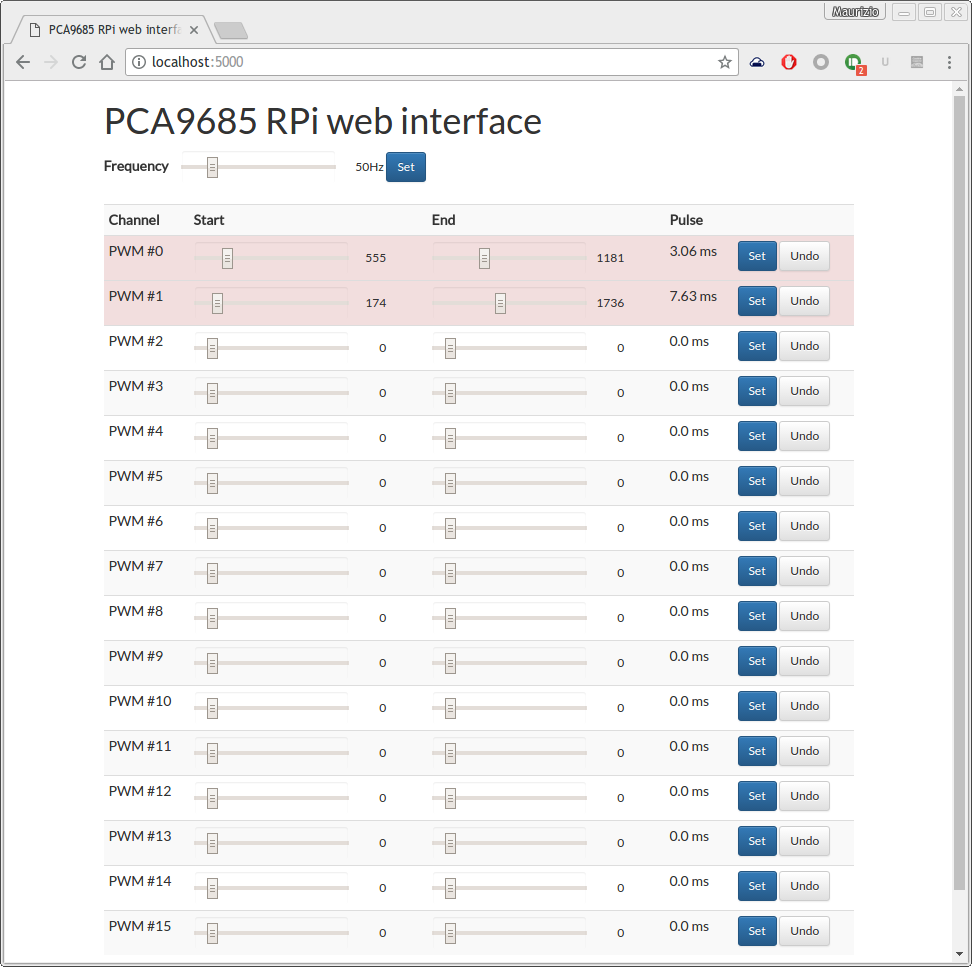
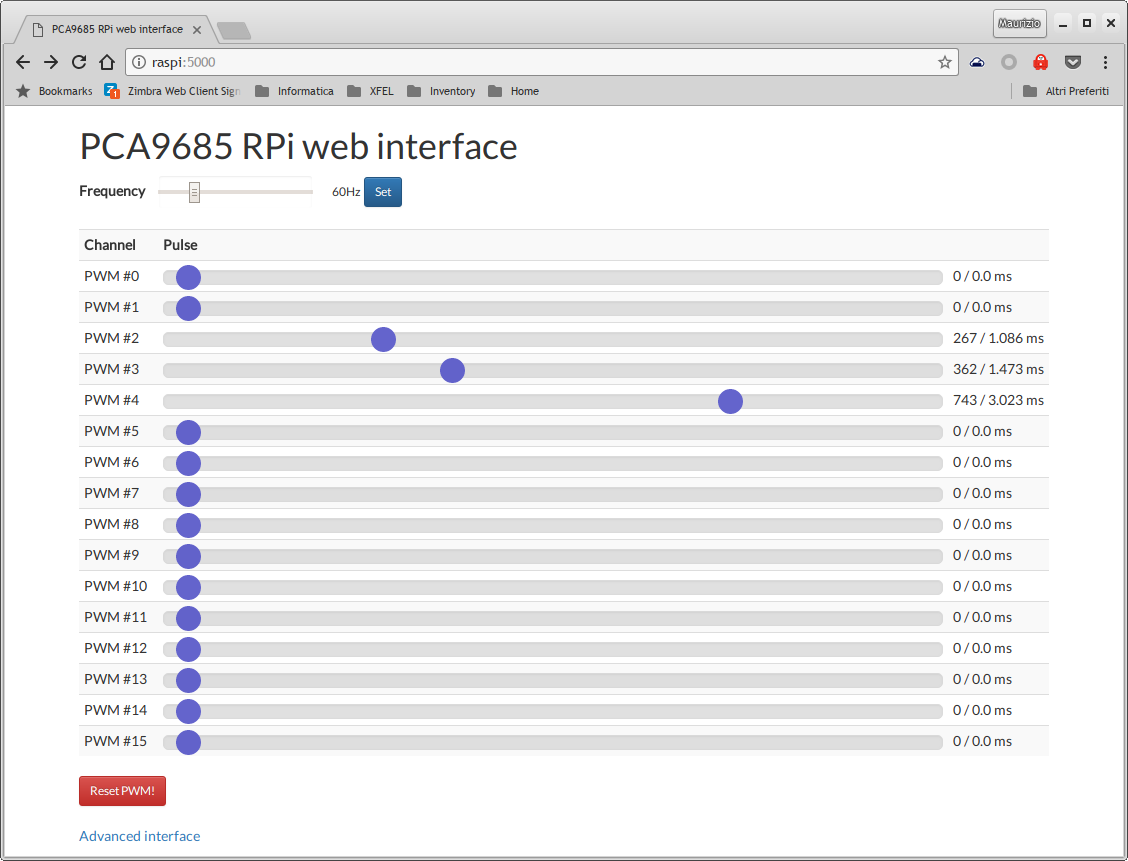
General improvements. Immediate set up of PWM signal on input change.

diff --git a/static/css/range.css b/static/css/range.css
@@ -1,85 +1,29 @@
-input[type=range] {
-  -webkit-appearance: none;
-  width: 100%;
-  margin: 8.3px 0;
+.form-inline .pwmfast {
+    -webkit-appearance: none;
+    width: 100%;
+    height: 15px;
+    border-radius: 5px;   
+    background: #d3d3d3;
+    outline: none;
+    opacity: 0.7;
+    -webkit-transition: .2s;
+    transition: opacity .2s;
 }
-input[type=range]:focus {
-  outline: none;
+
+.form-inline .pwmfast::-webkit-slider-thumb {
+    -webkit-appearance: none;
+    appearance: none;
+    width: 25px;
+    height: 25px;
+    border-radius: 50%; 
+    background: #2222b7;
+    cursor: pointer;
 }
-input[type=range]::-webkit-slider-runnable-track {
-  width: 100%;
-  height: 8.4px;
-  cursor: pointer;
-  box-shadow: 1px 1px 1px rgba(0, 0, 0, 0.5), 0px 0px 1px rgba(13, 13, 13, 0.5);
-  background: #ffffff;
-  border-radius: 7.9px;
-  border: 0px solid #010101;
-}
-input[type=range]::-webkit-slider-thumb {
-  box-shadow: 1px 1px 1px #000000, 0px 0px 1px #0d0d0d;
-  border: 1px solid #000000;
-  height: 25px;
-  width: 10px;
-  border-radius: 38px;
-  background: #92bbff;
-  cursor: pointer;
-  -webkit-appearance: none;
-  margin-top: -8.3px;
-}
-input[type=range]:focus::-webkit-slider-runnable-track {
-  background: #ffffff;
-}
-input[type=range]::-moz-range-track {
-  width: 100%;
-  height: 8.4px;
-  cursor: pointer;
-  box-shadow: 1px 1px 1px rgba(0, 0, 0, 0.5), 0px 0px 1px rgba(13, 13, 13, 0.5);
-  background: #ffffff;
-  border-radius: 7.9px;
-  border: 0px solid #010101;
-}
-input[type=range]::-moz-range-thumb {
-  box-shadow: 1px 1px 1px #000000, 0px 0px 1px #0d0d0d;
-  border: 1px solid #000000;
-  height: 25px;
-  width: 10px;
-  border-radius: 38px;
-  background: #92bbff;
-  cursor: pointer;
-}
-input[type=range]::-ms-track {
-  width: 100%;
-  height: 8.4px;
-  cursor: pointer;
-  background: transparent;
-  border-color: transparent;
-  color: transparent;
-}
-input[type=range]::-ms-fill-lower {
-  background: #f5f5f5;
-  border: 0px solid #010101;
-  border-radius: 15.8px;
-  box-shadow: 1px 1px 1px rgba(0, 0, 0, 0.5), 0px 0px 1px rgba(13, 13, 13, 0.5);
-}
-input[type=range]::-ms-fill-upper {
-  background: #ffffff;
-  border: 0px solid #010101;
-  border-radius: 15.8px;
-  box-shadow: 1px 1px 1px rgba(0, 0, 0, 0.5), 0px 0px 1px rgba(13, 13, 13, 0.5);
-}
-input[type=range]::-ms-thumb {
-  box-shadow: 1px 1px 1px #000000, 0px 0px 1px #0d0d0d;
-  border: 1px solid #000000;
-  height: 25px;
-  width: 10px;
-  border-radius: 38px;
-  background: #92bbff;
-  cursor: pointer;
-  height: 8.4px;
-}
-input[type=range]:focus::-ms-fill-lower {
-  background: #ffffff;
-}
-input[type=range]:focus::-ms-fill-upper {
-  background: #ffffff;
+
+.form-inline .pwmfast::-moz-range-thumb {
+    width: 25px;
+    height: 25px;
+    border-radius: 50%;
+    background: #2222b7;
+    cursor: pointer;
 }

diff --git a/templates/advanced.html b/templates/advanced.html
@@ -5,14 +5,13 @@
 
     <meta name="viewport" content="width=device-width, initial-scale=1">
     <link rel="stylesheet" href="static/css/style.css">
-    <link rel="stylesheet" href="static/css/range.css">
 
   </head>
   <body>
     <div class="container">
     <div class="row">
 
-    <h1>PCA9685 RPi web interface</h1>
+    <h1>PCA9685 RPi web interface (advanced)</h1>
 
     <form class="form-inline">
 
@@ -29,30 +28,42 @@
       <table class="table table-striped table-condensed col-md-10">
         <tr>
           <th>Channel</th>
-          <th colspan="2">Pulse</th>
+          <th>Start</th>
+          <th>End</th>
+          <th>Pulse</th>
+          <th></th>
         </tr>
 
         {{#channels}}
           <tr id="pwm_{{index}}">
             <td class="col-md-1">PWM #{{index}}</td>
-            <td class="col-md-10">
-              <input id="channel_{{index}}_end" class="pwmfast end form-control"
-              data-index="{{index}}" name="channel_{{index}}_end"
-              type="range" min="0" max="1000" value="{{end}}" data-orig-value="{{end}}"/>
+            <td class="col-md-3">
+              <input id="channel_{{index}}_start" class="pwm start form-control"
+              data-index="{{index}}" name="channel_{{index}}_start"
+              type="range" min="0" max="4096" value="{{start}}" data-orig-value="{{start}}"/>
+              <div class="range-value"><span>{{start}}</span></div>
             </td>
-            <td class="col-md-1 nowrap">  
-              <span id="pulse_{{index}}">{{end}} / {{pulse}} ms</span>
+            <td class="col-md-3">
+              <input id="channel_{{index}}_end" class="pwm end form-control"
+              data-index="{{index}}" name="channel_{{index}}_end"
+              type="range" min="0" max="4096" value="{{end}}" data-orig-value="{{end}}"/>
+              <div class="range-value"><span>{{end}}</span></div>
+            </td>
+            <td class="col-md-2" id="pulse_{{index}}">{{pulse}} ms</td>
+            <td class="col-md-1"><input type="button" value="Set"
+              data-index="{{index}}" class="btn btn-primary btn-sm set_pwm">
+              <input type="button" value="Undo"
+                data-index="{{index}}" class="btn btn-default btn-sm undo_pwm">
             </td>
           </tr>
         {{/channels}}
 
       </table>
 
+      <input type="button" value="Set all!" class="btn btn-primary btn-sm" id="set_all">
       <input type="button" value="Reset PWM!" class="btn btn-danger btn-sm" id="reset_all">
 
       <br><br>
-
-      <a href="/advanced">Advanced interface</a>
 
     </form>
 

diff --git a/static/js/pca9685.js b/static/js/pca9685.js
@@ -13,6 +13,15 @@ var PCA9685 = (function($,window,document,undefined) {
     $("#pulse_" + index).html(pulse_length + " ms");
   };
 
+  var set_label = function(range) {
+    var value = range.val();
+    var index = range.data("index");
+    var freq = parseInt($("#freq").val());
+    var pulse_length = App.round(value / (4096 * freq ) * 1000, 3);
+    $("#pulse_" + index).html(value + " / " + pulse_length + " ms");
+  };
+
+
   var bind_ranges = function() {
     $("input[type=range].pwm").on("input",function(){
       var $this = $(this);
@@ -38,6 +47,23 @@ var PCA9685 = (function($,window,document,undefined) {
       update_pulse(index, value, other_value);
     });
 
+    
+    $("input[type=range].pwmfast").on("input",function(){
+      var $this = $(this);
+      var value = parseInt($this.val());
+      var index = $this.data("index");
+      set_label($this);
+      $("#pwm_" + index).addClass("danger");
+      var post_data = {};
+      post_data[$this.attr("name")] = value;
+      $.post("/set", post_data,
+        function(data){
+          $this.data("orig-value", value).attr("data-orig-value", value);
+          $("#pwm_" + index).removeClass("danger").flash();
+      });
+    });
+
+
     $("#freq").on("input",function(){
       var $this = $(this);
       var value = parseInt($this.val());
@@ -60,6 +86,10 @@ var PCA9685 = (function($,window,document,undefined) {
         var end_value = parseInt($("#channel_"+index+"_end").val());
         update_pulse(index, start_value, end_value);
       });
+
+      $("input[type=range].pwmfast").each(function(){
+        set_label($(this));
+      });      
     });
   }
 

diff --git a/static/css/style.css b/static/css/style.css
@@ -16,6 +16,10 @@ div.range-value {
   width: 35px;
 }
 
+td.nowrap {
+	white-space: nowrap;
+}
+
 #freq {
   margin: 0 10px;
 }

diff --git a/main.py b/main.py
@@ -1,10 +1,10 @@
-#!/usr/bin/python
+  #!/usr/bin/python
 
 # -*- coding: utf-8 -*-
 from __future__ import division
 from RPiHTTPServer import RPiHTTPServer, RPiHTTPRequestHandler
-#import Adafruit_PCA9685.PCA9685 as pca9685
-from pca9685 import pca9685
+import Adafruit_PCA9685.PCA9685 as pca9685
+#from pca9685 import pca9685
 import pystache
 import os
 import json
@@ -13,7 +13,7 @@ class WebHandler(RPiHTTPRequestHandler):
 
   # TODO: status should be set directly from interface to i2C
   status = {
-    "freq": 50,
+    "freq": 0,
     "channels": [
       {"index":  0, "start": 0, "end": 0, "pulse": 0},
       {"index":  1, "start": 0, "end": 0, "pulse": 0},
@@ -35,6 +35,9 @@ class WebHandler(RPiHTTPRequestHandler):
   }
 
   def compute_pulses(self):
+    if self.status["freq"] == 0:
+      self.status["freq"] = self.server.config["START_FREQ"]
+
     for i in xrange(16):
       ch_start = self.status["channels"][i]["start"]
       ch_end = self.status["channels"][i]["end"]
@@ -45,6 +48,11 @@ class WebHandler(RPiHTTPRequestHandler):
   def default_response(self):
     self.compute_pulses()
     self.render_template()
+
+  # GET /simple
+  def routed_advanced(self):
+    self.compute_pulses()
+    self.render_template(template = "advanced.html")
 
   # POST /set
   def set_param(self):
@@ -58,6 +66,10 @@ class WebHandler(RPiHTTPRequestHandler):
       if 10 <= freq <= 250:
         self.status["freq"] = freq
         self.server.pwm.set_pwm_freq(freq)
+    elif self.status["freq"] == 0:
+      freq = self.server.config["START_FREQ"]
+      self.status["freq"] = freq
+      self.server.pwm.set_pwm_freq(freq)
 
     # set start and end for pwm channels
     for i in xrange(16):
@@ -88,7 +100,7 @@ class WebHandler(RPiHTTPRequestHandler):
       self.content_type = "application/json"
       self.content = json.dumps(tpl_vars)
     else:
-      tpl = os.path.join(self.config.TEMPLATE_FOLDER, template)
+      tpl = os.path.join(self.config["TEMPLATE_FOLDER"], template)
       if os.path.isfile(tpl):
         tpl_content = open(tpl,"r").read()
         self.content = pystache.render(tpl_content, tpl_vars)
@@ -109,14 +121,14 @@ def main():
   config = WebServer.server.config
 
   # instantiate and initialise pwm controller
-  pwm = pca9685(address=int(config.I2C_ADDR,16))
+  pwm = pca9685(address=int(config["I2C_ADDR"],16))
 
   # assign variables to server
   WebServer.server.pwm = pwm
   WebServer.server.root_folder = basedir
 
   try:
-    print "Server listening on http://%s:%s" % (config.SERVER_ADDRESS,config.SERVER_PORT)
+    print "Server listening on http://%s:%s" % (config["SERVER_ADDRESS"],config["SERVER_PORT"])
     WebServer.serve_forever()
   except KeyboardInterrupt:
     pass
